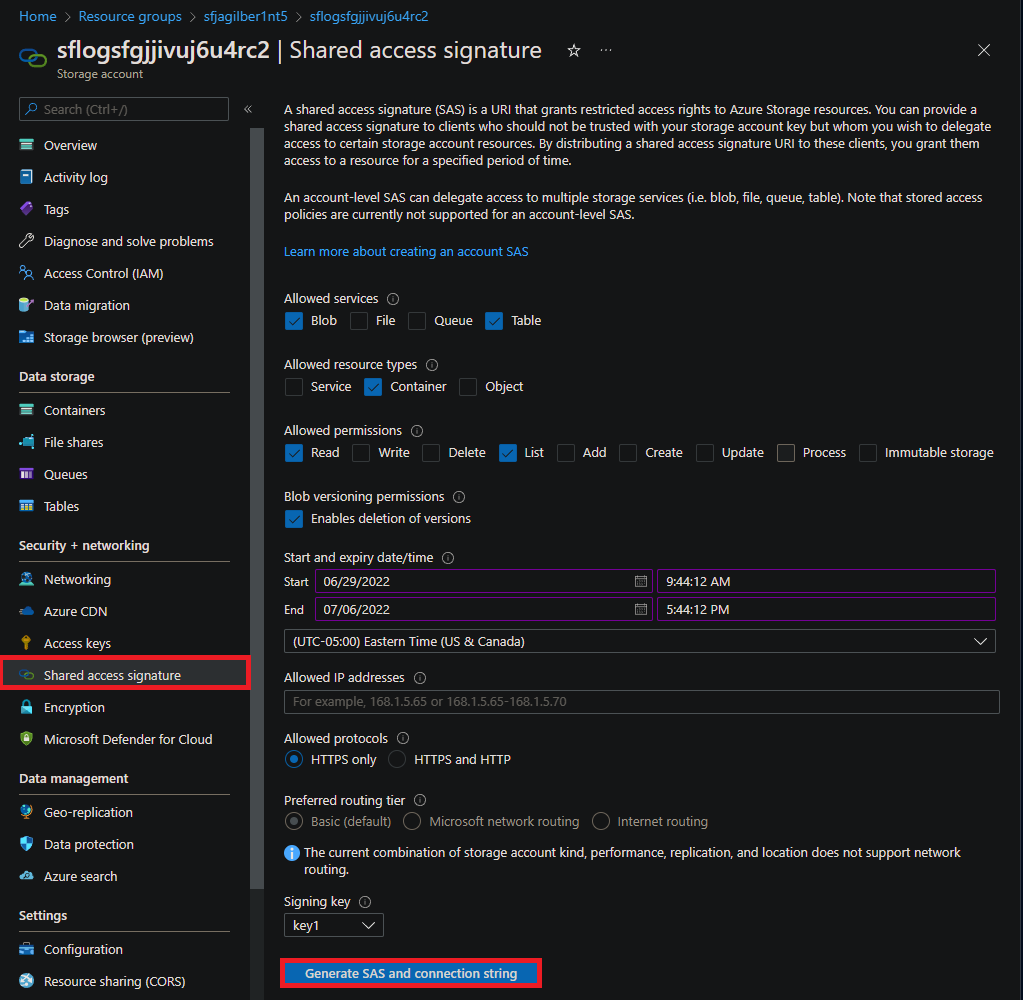
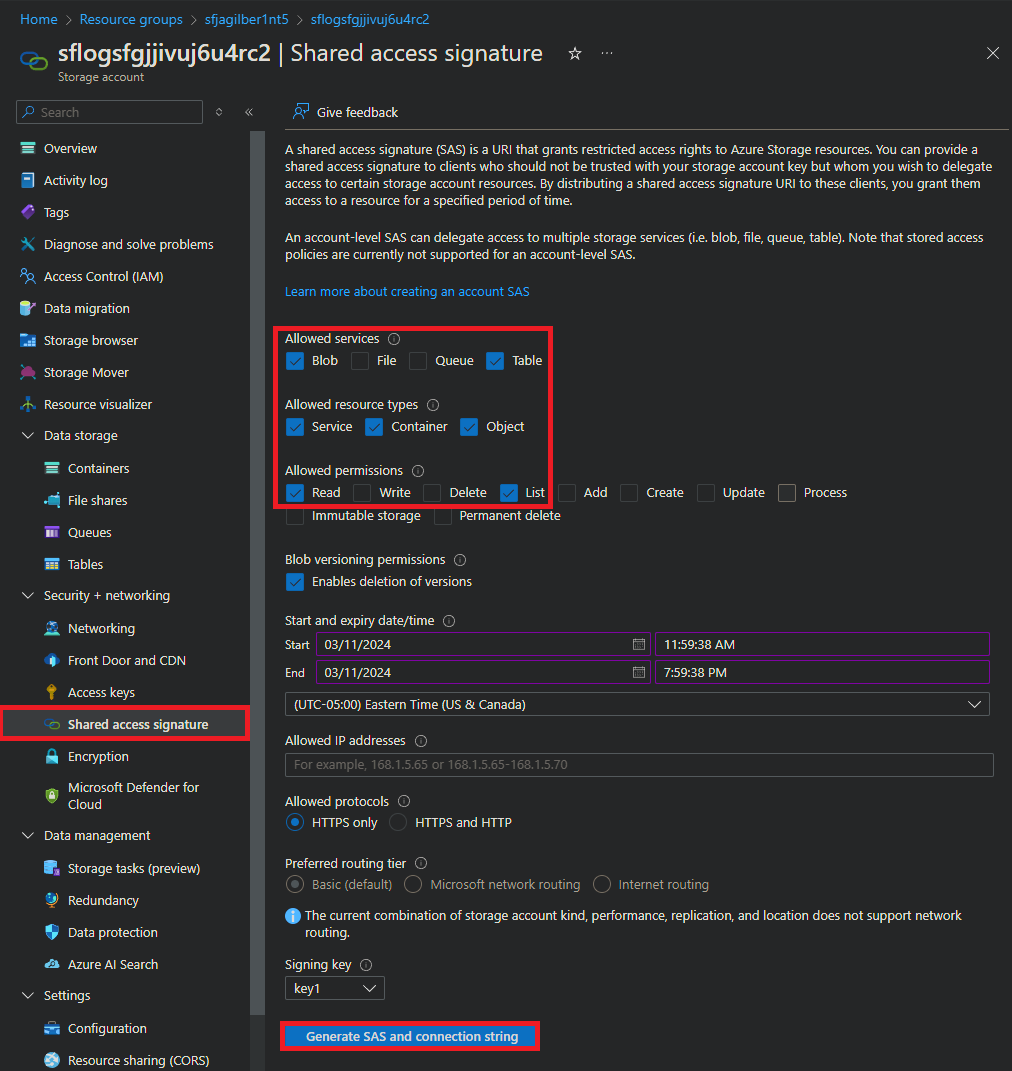
modify kusto quickstart md with minimum sas permissions and modified image

diff --git a/docs/kustoQuickStart.md b/docs/kustoQuickStart.md
@@ -53,6 +53,21 @@ From Azure portal https://portal.azure.com navigate to service fabric cluster re
 
 Once correct storage account is identified, select 'Shared access signature' and then 'Generate SAS and connection string'. Copy 'Blob service SAS URL' or 'Connection Sting'. This is the value that will be used for CollectSFData argument 'SasKey'.
 
+Ensure at least the following permissions are selected:
+
+- Allowed Services
+  - Blob
+  - Table
+
+- Allowed Resource Types
+  - Service
+  - Container
+  - Object
+
+- Allowed Permissions
+  - Read
+  - List
+
 - ![](media/azure.portal.3.png)
 
 - ![](media/azure.portal.4.png)
@@ -457,6 +472,27 @@ pause
 1:Execute:exception: System.AggregateException: One or more errors occurred. ---> System.AggregateException: One or more errors occurred. ---> Microsoft.WindowsAzure.Storage.StorageException: The remote server returned an error: (403) Forbidden. ---> System.Net.WebException: The remote server returned an error: (403) Forbidden.
    at Microsoft.WindowsAzure.Storage.Shared.Protocol.HttpResponseParsers.ProcessExpectedStatusCodeNoException[T](HttpStatusCode expectedStatusCode, HttpStatusCode actualStatusCode, T retVal, StorageCommandBase`1 cmd, Exception ex) in c:\Program Files (x86)\Jenkins\workspace\release_dotnet_master\Lib\Common\Shared\Protocol\HttpResponseParsers.Common.cs:line 54
 
+```
+
+4. Microsoft.Identity.Client.MsalServiceException.  
+    Verify configuration settings are correct:
+    - azureClientId
+    - azureTenantId
+    - azureClientSecret
+    - azureClientCertificate
+
+    .net framework will use ADAL and .net core will use MSAL.  
+    If using .net framework (net462), use cmd.exe or powershell.exe to execute collectsfdata.exe.  
+    If using .net core (net6.0+), use pwsh.exe (powershell core) to execute collectsfdata.exe.
+
+```text
+Authenticate:exception: AggregateException:System.AggregateException: One or more errors occurred. ---> Microsoft.Identity.Client.MsalServiceException: 
+AADSTS50194: Application 'xxxxxxxx-xxxx-xxxx-xxxx-xxxxxxxxxxxx'(collectsfdata service fabric data collection) is not configured as a multi-tenant application. 
+Usage of the /common endpoint is not supported for such applications created after '10/15/2018'. 
+Use a tenant-specific endpoint or configure the application to be multi-tenant. 
+Trace ID: 952e918a-1414-4206-91bd-ad74eb1cbc00 
+Correlation ID: 56e0075d-cc4f-4974-a651-0b25e82faaee 
+Timestamp: 2024-03-08 22:05:00Z
 ```
 
 ## reference
